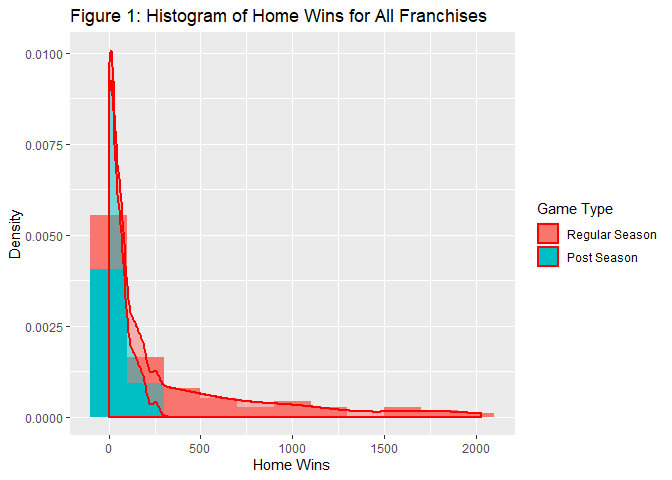
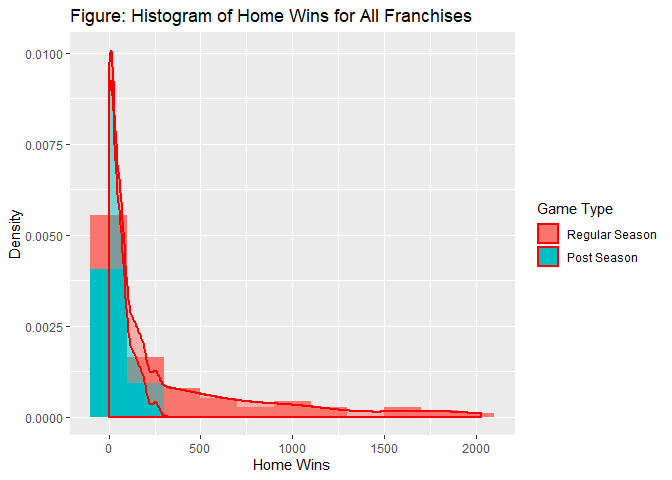
done

Changed region(s): [[0.1875, 0.0, 0.7188, 0.0625]]

diff --git a/README.md b/README.md
@@ -3,7 +3,7 @@ Project 1
 Yuying Zhou
 9/14/2020
 
-  - [Needed Packages](#needed-packages)
+  - [Packages List](#packages-list)
   - [Create a function to read NHL
     records](#create-a-function-to-read-nhl-records)
   - [Create a function to read stats
@@ -17,12 +17,16 @@ Yuying Zhou
           - [Homewins Histogram Plot](#homewins-histogram-plot)
           - [Roadwins boxplot](#roadwins-boxplot)
           - [Homewins vs Roadwins Plot](#homewins-vs-roadwins-plot)
+          - [Correlation Plot](#correlation-plot)
       - [Active Goalie from
         FranchiseID=1](#active-goalie-from-franchiseid1)
           - [Table](#table)
           - [Bar Plot](#bar-plot)
+      - [Join Franchisetotals with golie from franchise
+        1](#join-franchisetotals-with-golie-from-franchise-1)
+      - [Roster for Team 1](#roster-for-team-1)
 
-# Needed Packages
+# Packages List
 
 ``` r
 #load packageds
@@ -30,6 +34,7 @@ library(httr)
 library(jsonlite)
 library(tidyverse)
 library(knitr)
+library(corrplot)
 ```
 
 # Create a function to read NHL records
@@ -48,7 +53,7 @@ flook<-franchisetable$data.franchiseId
 names(flook)<-franchisetable$data.franchiseName
 
 #create the function
-# functions with endpoints, users can put endpoint 1-5 for different endpoints
+#functions with endpoints, users can put endpoint 1-5 for different endpoints
 records<-function(endpoint,franchise=NULL){
   base<- "https://records.nhl.com/site/api"
   if (endpoint==1){
@@ -95,12 +100,6 @@ records<-function(endpoint,franchise=NULL){
       get_df<-as.data.frame(get_json)
   }
 }
-
-data1<-records(endpoint=1)
-data2<-records(2)
-data3<-records(3,"San Jose Sharks")
-data4<-records(4,"San Jose Sharks")
-data5<-records(5,"New Jersey Devils")
 ```
 
 # Create a function to read stats API
@@ -207,15 +206,6 @@ nhlstats<-function(modifiers,teamID=NULL,season=NULL,teams=NULL){
       get2_df<-as.data.frame(get2_json)
     }
 }  
-
-stat1<-nhlstats(modifiers = 1,teamID = 14)
-stat2<-nhlstats(modifiers = 2,teamID = 14)
-stat3<-nhlstats(modifiers = 3, teamID =25)
-stat4<-nhlstats(modifiers = 4, teamID = 1)
-stat5<-nhlstats(modifiers = 5,teamID = 1)
-stat6<-nhlstats(modifiers = 6, teamID=14,season = "20112012")
-stat7<-nhlstats(modifiers = 7,teams = "4,5")
-stat8<-nhlstats(modifiers = 8)
 ```
 
 # Create a wrapper function
@@ -223,10 +213,11 @@ stat8<-nhlstats(modifiers = 8)
 ``` r
 stopshop<-function(endpoint=NULL, franchise=NULL, modifiers=NULL,teamID=NULL, teams=NULL,season=NULL){
   if(!is.null(endpoint)){
-  record<-records(endpoint,franchise)}
+    record<-records(endpoint,franchise)}
   else if (!is.null(modifiers)){
-  stat<-nhlstats(modifiers,teamID,season,teams)
-  }}
+    stat<-nhlstats(modifiers,teamID,season,teams)
+  }
+}
 ```
 
 # Create datasets for use in the analysis later
@@ -234,14 +225,17 @@ stopshop<-function(endpoint=NULL, franchise=NULL, modifiers=NULL,teamID=NULL, te
 ``` r
 #create a dataset from API records endpoint franchise-team-totals
 franchisetotals<-stopshop(endpoint = 2)
-l<-stopshop(endpoint = 3,franchise = 1)
+
 #create a goalie dataset for franchise ID 1 
 goalie<-stopshop(endpoint = 4, franchise = 1)
 goalie<-as.tibble(goalie)
+
 #create a skater dataset for franchise name Montréal Canadiens
+#This is also a test to see if franchise name works
 skater<-stopshop(endpoint = 5, franchise = "Montréal Canadiens")
-#create a dataset for team1 stats
-stats_team1<-stopshop(modifiers = 5,teamID = 1)
+
+#create a roaster for team1 stats
+roasters_team1<-stopshop(modifiers = 1,teamID = 1)
 ```
 
 # Explore data
@@ -258,9 +252,12 @@ franchise, 13 are with gameType of 2 and 5 are with gameType of 3.
 ``` r
 #convert activeFranchise and typeID to a factor
 franchisetotals$data.activeFranchise<-as.factor(franchisetotals$data.activeFranchise)
-franchisetotals$data.gameTypeId<-as.factor(franchisetotals$data.gameTypeId)
-active<-table(franchisetotals$data.activeFranchise,franchisetotals$data.gameTypeId)
-active_2<-kable(active, caption = "TABLE 1: Franchise Played Games in History",col.names = c("Regular Season","Post Season"))
+franchisetotals$data.gameTypeId2<-as.factor(franchisetotals$data.gameTypeId)
+
+#Make a contengency table showes count for active franchise and game type combinations
+active<-table(franchisetotals$data.activeFranchise,franchisetotals$data.gameTypeId2)
+#use kable function to make it looks better
+active_2<-kable(active, caption = "TABLE: Franchise Played Games in History",col.names = c("Regular Season","Post Season"))
 active_2
 ```
 
@@ -269,7 +266,7 @@ active_2
 | 0 |             13 |           5 |
 | 1 |             44 |          43 |
 
-TABLE 1: Franchise Played Games in History
+TABLE: Franchise Played Games in History
 
 ### Homewins Histogram Plot
 
@@ -279,7 +276,7 @@ there are more home wins in regular season.
 
 ``` r
 g<-ggplot(data=franchisetotals,aes(x=data.homeWins))
-g+geom_histogram(aes(y=..density..,fill=as.factor(data.gameTypeId)),binwidth = 200)+scale_fill_discrete(name="Game Type",labels=c("Regular Season","Post Season"))+geom_density( alpha=0.5,color="red",lwd=1,outline.type = "full",aes(fill=as.factor(data.gameTypeId)),position = "stack")+labs(y="Density",x="Home Wins",title="Figure 1: Histogram of Home Wins for All Franchises")
+g+geom_histogram(aes(y=..density..,fill=as.factor(data.gameTypeId)),binwidth = 200)+scale_fill_discrete(name="Game Type",labels=c("Regular Season","Post Season"))+geom_density( alpha=0.5,color="red",lwd=1,outline.type = "full",aes(fill=as.factor(data.gameTypeId)),position = "stack")+labs(y="Density",x="Home Wins",title="Figure: Histogram of Home Wins for All Franchises")
 ```
 
 ![](Project1_files/figure-gfm/homeswins%20plot-1.png)<!-- -->
@@ -291,22 +288,38 @@ season than post regular season.
 
 ``` r
 g<-ggplot(data=franchisetotals,aes(y=data.roadWins,x=as.factor(data.gameTypeId)))
-g+geom_boxplot()+geom_jitter(aes(color= as.factor(data.gameTypeId)))+scale_color_discrete(name="Game Type",labels=c("Reguar Season","Post Season"))+labs(x="Game Type",y="Road Wins",title="Figure 3: Road Wins Boxplot")
+g+geom_boxplot()+geom_jitter(aes(color= as.factor(data.gameTypeId)))+scale_color_discrete(name="Game Type",labels=c("Reguar Season","Post Season"))+labs(x="Game Type",y="Road Wins",title="Figure: Road Wins Boxplot")
 ```
 
-![](Project1_files/figure-gfm/unnamed-chunk-1-1.png)<!-- -->
+![](Project1_files/figure-gfm/boxplot-1.png)<!-- -->
 
 ### Homewins vs Roadwins Plot
 
-As shown in Figure 4, road wins and home wins are highly correlated. THe
-relaitonship is linear and postive.
+As shown in Figure below, road wins and home wins are highly correlated.
+THe relaitonship is linear and postive.
 
 ``` r
 g<-ggplot(data=franchisetotals,aes(x=data.homeWins,y=data.roadWins))
-g+geom_point(aes(group=as.factor(data.gameTypeId),color=as.factor(data.gameTypeId)))+geom_smooth(method=lm,aes(group=as.factor(data.gameTypeId)),color="green")+facet_wrap(~data.gameTypeId,labeller = label_both)+labs(title="Figure 4: Home Wins vs Road Wins",x="Home Wins",y="Road Wins")+scale_color_discrete (name="Game Type",labels=c("Regular","Post"))
+g+geom_point(aes(group=as.factor(data.gameTypeId),color=as.factor(data.gameTypeId)))+geom_smooth(method=lm,aes(group=as.factor(data.gameTypeId)),color="green")+facet_wrap(~data.gameTypeId,labeller = label_both)+labs(title="Figure: Home Wins vs Road Wins",x="Home Wins",y="Road Wins")+scale_color_discrete (name="Game Type",labels=c("Regular","Post"))
 ```
 
-![](Project1_files/figure-gfm/unnamed-chunk-2-1.png)<!-- -->
+![](Project1_files/figure-gfm/scatter-1.png)<!-- -->
+
+### Correlation Plot
+
+As shown in the plot below, home wins is highly correlated with road
+wins, homelosses,roadlosses,hometies, and road ties. Since the sample
+size is small, extra cautions are needed to make any interferences.
+
+``` r
+#create a dataset only includes gameType==2 for wins, losses, and ties, also remove rows with na.
+franchisetotals_R<-franchisetotals%>%filter(data.gameTypeId==2)%>%select(contains("Wins"),contains("Loss"),contains("Tie"))%>%filter(across(everything(), ~ !is.na(.x)))
+correlation<-cor(franchisetotals_R,method="spearman")
+corr_plot<-corrplot(correlation, type="upper")
+mtext("Example Plot", at=2.5, line=-0.5, cex=2)
+```
+
+![](Project1_files/figure-gfm/corrplot-1.png)<!-- -->
 
 ## Active Goalie from FranchiseID=1
 
@@ -316,7 +329,7 @@ There are 37 in the franchise “Montréal Canadiens” and 788 in the
 franchise "“Montréal Canadiens”". 35 goalie retired from the franchise.
 
 ``` r
-goalie_table<-kable(table(goalie$data.activePlayer), caption = "TABLE 2: Goalie of Montréal Canadiens", col.names = c("active player","count"))
+goalie_table<-kable(table(goalie$data.activePlayer), caption = "TABLE: Goalie of Montréal Canadiens", col.names = c("active player","count"))
 goalie_table
 ```
 
@@ -325,7 +338,7 @@ goalie_table
 | FALSE         |    35 |
 | TRUE          |     2 |
 
-TABLE 2: Goalie of Montréal Canadiens
+TABLE: Goalie of Montréal Canadiens
 
 ### Bar Plot
 
@@ -333,7 +346,79 @@ As shown in Figure, 35 goalie were retired and 2 goalie are active.
 
 ``` r
 g<-ggplot(data=goalie,aes(x=data.activePlayer))
-g+geom_bar()+labs(x="Players", title = "Figure 2: Bar Plot for Goglie of Franchise Montréal Canadiens")+scale_x_discrete(labels=c("Inactive","Active"))
+g+geom_bar()+labs(x="Players", title = "Figure: Bar Plot for Goglie of Franchise Montréal Canadiens")+scale_x_discrete(labels=c("Inactive","Active"))
 ```
 
-![](Project1_files/figure-gfm/unnamed-chunk-4-1.png)<!-- -->
+![](Project1_files/figure-gfm/barplot-1.png)<!-- -->
+
+## Join Franchisetotals with golie from franchise 1
+
+In this section, I joined two tables using inner\_join. And created two
+new viarablels:
+
+  - gameprop:the proprotion of game played by the player to total game
+    played by thier franchise.  
+  - winprop: proportion of wins received by the player to the
+    franchise’s total wins in the history.
+
+As shown in the summarize below, for active players, they attened on
+average 5% of total gamees in thier franchise history, and for inactive
+players, they atteneded on average 1.6% of total games in their
+franchise history.
+
+The findings were similar for win proportions. For active players, they
+received 5% of total wins in their franchise history and for inactive
+players, they recieved 1.6% of total wins in their franchise history.
+
+``` r
+#Join two datasets by gametypeID and franchiseID
+goalie_fr<-inner_join(franchisetotals,goalie,by=c("data.gameTypeId","data.franchiseId"))
+
+#get the proportion of gamesplayed and wins for each goalie
+goalie_fr<-goalie_fr%>%mutate(gameprop=data.gamesPlayed.y/data.gamesPlayed.x,winprop=data.wins.y/data.wins.x)
+
+#summarize gameproportaion for the categorical variable active player
+goalie_fr$data.activePlayer<-as.factor(goalie_fr$data.activePlayer)
+t1<-goalie_fr%>%group_by(data.activePlayer)%>%
+          summarise(avggame=mean(gameprop),medgame=median(gameprop),vargame=var(gameprop),.groups = 'drop')
+t1
+```
+
+    ## # A tibble: 2 x 4
+    ##   data.activePlayer avggame medgame  vargame
+    ##   <fct>               <dbl>   <dbl>    <dbl>
+    ## 1 FALSE              0.0164 0.00698 0.000487
+    ## 2 TRUE               0.0511 0.0511  0.00504
+
+``` r
+t2<-goalie_fr%>%group_by(data.activePlayer)%>%
+          summarise(avgwin=mean(winprop),medwin=median(winprop),varwin=var(winprop),.groups = 'drop')
+t2
+```
+
+    ## # A tibble: 2 x 4
+    ##   data.activePlayer avgwin  medwin   varwin
+    ##   <fct>              <dbl>   <dbl>    <dbl>
+    ## 1 FALSE             0.0160 0.00522 0.000574
+    ## 2 TRUE              0.0506 0.0506  0.00506
+
+## Roster for Team 1
+
+There are 21 players in New Jersey Devils. 7 are denfenseman, 12 are
+forward, and 2 are goalie.
+
+``` r
+#create a summary table for postion type
+ro_t<-table(roasters_team1$position.type)
+
+#use kable function to make the table look =better
+kable(ro_t,caption="Table: Number of Player for Each Postion", col.names = c("Postion","Count"))
+```
+
+| Postion    | Count |
+| :--------- | ----: |
+| Defenseman |     7 |
+| Forward    |    12 |
+| Goalie     |     2 |
+
+Table: Number of Player for Each Postion
